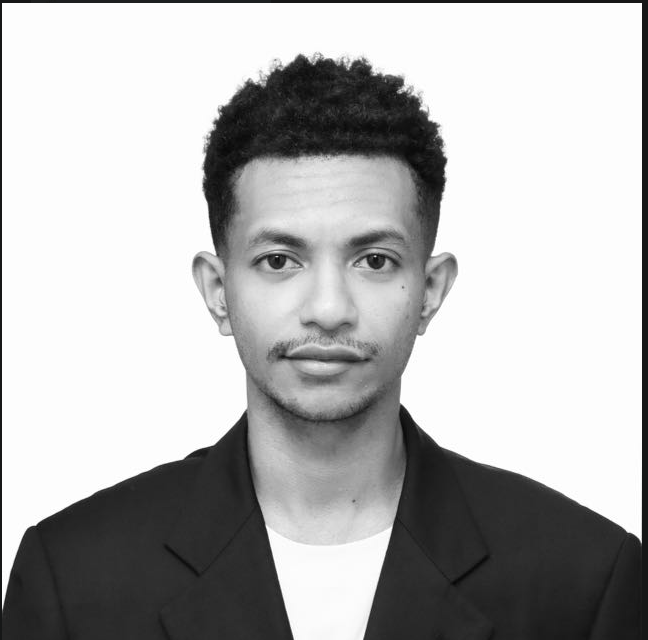
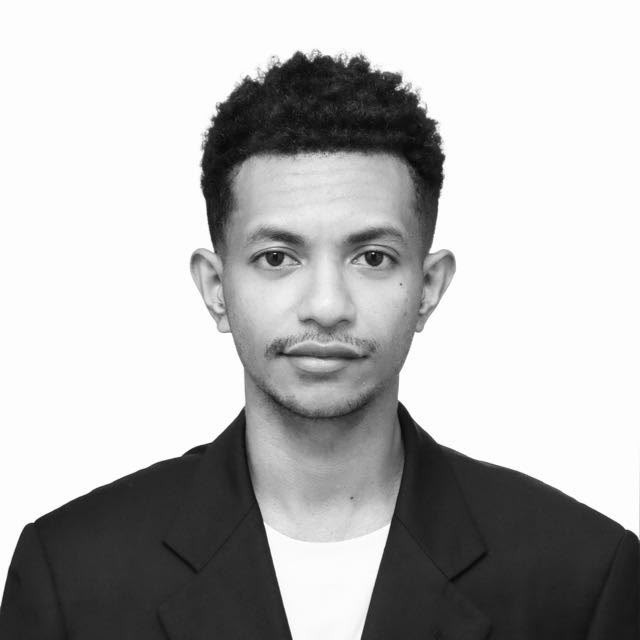
feat: re-upload photo, make photo full-screen inside frame and add interactive fullscreen lightbox modal

diff --git a/src/components/Hero.tsx b/src/components/Hero.tsx
@@ -1,5 +1,5 @@
-import React from 'react';
-import { motion } from 'motion/react';
+import React, { useState, useEffect } from 'react';
+import { motion, AnimatePresence } from 'motion/react';
 import { PortfolioData } from '../types';
 import { useLanguage } from '../context/LanguageContext';
 
@@ -11,6 +11,23 @@ export const Hero: React.FC<HeroProps> = ({ data }) => {
   const { language, t } = useLanguage();
   const th = t.hero;
   const portraitSrc = data.portraitUrl || '';
+  const [isFullscreen, setIsFullscreen] = useState(false);
+
+  useEffect(() => {
+    const handleKeyDown = (e: KeyboardEvent) => {
+      if (e.key === 'Escape') setIsFullscreen(false);
+    };
+    if (isFullscreen) {
+      document.body.style.overflow = 'hidden';
+      window.addEventListener('keydown', handleKeyDown);
+    } else {
+      document.body.style.overflow = '';
+    }
+    return () => {
+      document.body.style.overflow = '';
+      window.removeEventListener('keydown', handleKeyDown);
+    };
+  }, [isFullscreen]);
 
   const scrollToSection = (id: string) => {
     const el = document.getElementById(id);
@@ -136,39 +153,97 @@ export const Hero: React.FC<HeroProps> = ({ data }) => {
           transition={{ duration: 0.8, delay: 0.25, ease: [0.16, 1, 0.3, 1] }}
           className="lg:col-span-5 relative flex justify-center lg:justify-end"
         >
-          {/* Portrait frame — Enlarged size matching user reference */}
+          {/* Portrait frame — Full Screen photo inside frame */}
           <motion.div
             whileHover={{ y: -4, transition: { duration: 0.3 } }}
             className="relative w-full max-w-[340px] sm:max-w-[390px] md:max-w-[430px] lg:max-w-[460px] xl:max-w-[490px]"
           >
-            {/* Outer cream mat frame (Passe-partout) matching reference */}
-            <div className="relative p-4 sm:p-5 lg:p-6 bg-[#EBE5DC] border border-[#DDD6CB] shadow-[0_22px_55px_-16px_rgba(38,59,80,0.18),0_6px_20px_rgba(0,0,0,0.04)] rounded-[2px] transition-all duration-500">
+            {/* Outer cream mat frame (Passe-partout) */}
+            <div className="relative p-3 sm:p-4 bg-[#EBE5DC] border border-[#DDD6CB] shadow-[0_22px_55px_-16px_rgba(38,59,80,0.18),0_6px_20px_rgba(0,0,0,0.04)] rounded-[2px] transition-all duration-500">
               
               {/* Editorial Corner Crop Marks (L-brackets) at top-left and bottom-right */}
-              <div className="absolute top-2 left-2 sm:top-2.5 sm:left-2.5 w-5 h-5 sm:w-6 sm:h-6 border-t-[2.5px] border-l-[2.5px] border-[#81929E] pointer-events-none" />
-              <div className="absolute bottom-2 right-2 sm:bottom-2.5 sm:right-2.5 w-5 h-5 sm:w-6 sm:h-6 border-b-[2.5px] border-r-[2.5px] border-[#81929E] pointer-events-none" />
+              <div className="absolute top-2 left-2 sm:top-2.5 sm:left-2.5 w-5 h-5 sm:w-6 sm:h-6 border-t-[2.5px] border-l-[2.5px] border-[#81929E] pointer-events-none z-10" />
+              <div className="absolute bottom-2 right-2 sm:bottom-2.5 sm:right-2.5 w-5 h-5 sm:w-6 sm:h-6 border-b-[2.5px] border-r-[2.5px] border-[#81929E] pointer-events-none z-10" />
 
-              {/* Middle thin border line */}
-              <div className="border border-[#CAC3B5] p-3.5 sm:p-5 lg:p-6 bg-[#FAF8F4] rounded-[1px] shadow-[inset_0_1px_3px_rgba(0,0,0,0.02)]">
-                {/* Photo container — passport style */}
-                <div className="relative aspect-[3/4] overflow-hidden bg-white border border-[#E0D9CD] shadow-[0_2px_8px_rgba(0,0,0,0.06)] group">
+              {/* Photo container — fills inner frame full-screen, click to open full-screen modal */}
+              <div 
+                onClick={() => setIsFullscreen(true)}
+                className="relative border border-[#CAC3B5] overflow-hidden bg-white rounded-[1px] shadow-[0_2px_8px_rgba(0,0,0,0.06)] group cursor-pointer"
+                title="Klik untuk melihat foto full screen"
+              >
+                <div className="relative aspect-[4/5] overflow-hidden">
                   {portraitSrc ? (
                     <img
                       src={portraitSrc}
                       alt={th.portraitAlt}
-                      className="w-full h-full object-cover object-top grayscale contrast-[1.05] group-hover:scale-103 transition-transform duration-700"
+                      className="w-full h-full object-cover object-top grayscale contrast-[1.05] group-hover:scale-105 transition-transform duration-700"
                     />
                   ) : (
                     <div className="w-full h-full bg-[#EFEBE3] flex items-center justify-center">
                       <span className="font-serif text-2xl text-[#263B50]/40">肖像</span>
                     </div>
                   )}
+
+                  {/* Hover Fullscreen Badge */}
+                  <div className="absolute bottom-3 right-3 px-2.5 py-1.5 rounded bg-[#1C1C1C]/75 backdrop-blur-sm text-white text-[10px] tracking-wider uppercase font-sans flex items-center gap-1.5 opacity-0 group-hover:opacity-100 transition-opacity duration-300 pointer-events-none">
+                    <svg className="w-3.5 h-3.5" fill="none" stroke="currentColor" viewBox="0 0 24 24">
+                      <path strokeLinecap="round" strokeLinejoin="round" strokeWidth={2} d="M4 8V4m0 0h4M4 4l5 5m11-5h-4m4 0v4m0-4l-5 5M4 16v4m0 0h4m-4 0l5-5m11 5l-5-5m5 5v-4m0 4h-4" />
+                    </svg>
+                    <span>Full Screen</span>
+                  </div>
                 </div>
               </div>
             </div>
           </motion.div>
         </motion.div>
       </div>
+
+      {/* Fullscreen Photo Lightbox Modal */}
+      <AnimatePresence>
+        {isFullscreen && (
+          <motion.div
+            initial={{ opacity: 0 }}
+            animate={{ opacity: 1 }}
+            exit={{ opacity: 0 }}
+            transition={{ duration: 0.25 }}
+            onClick={() => setIsFullscreen(false)}
+            className="fixed inset-0 z-50 flex items-center justify-center bg-black/85 backdrop-blur-md p-4 sm:p-8"
+          >
+            <motion.div
+              initial={{ scale: 0.92, opacity: 0 }}
+              animate={{ scale: 1, opacity: 1 }}
+              exit={{ scale: 0.92, opacity: 0 }}
+              transition={{ duration: 0.25 }}
+              onClick={(e) => e.stopPropagation()}
+              className="relative max-w-2xl w-full flex flex-col items-center bg-[#EBE5DC] p-3 sm:p-5 rounded-md border border-[#DDD6CB] shadow-2xl"
+            >
+              {/* Close Button */}
+              <button
+                onClick={() => setIsFullscreen(false)}
+                className="absolute -top-3.5 -right-3.5 sm:-top-4 sm:-right-4 w-9 h-9 rounded-full bg-[#1C1C1C] text-white flex items-center justify-center text-sm font-bold shadow-lg hover:bg-[#B4473F] transition-colors cursor-pointer z-10"
+                aria-label="Close fullscreen"
+              >
+                ✕
+              </button>
+
+              {/* Fullscreen Photo View */}
+              <div className="relative overflow-hidden rounded bg-white border border-[#CAC3B5] max-h-[75vh] w-full flex items-center justify-center">
+                <img
+                  src={portraitSrc}
+                  alt={th.portraitAlt}
+                  className="w-auto h-auto max-h-[75vh] max-w-full object-contain grayscale contrast-[1.05]"
+                />
+              </div>
+
+              {/* Caption */}
+              <div className="mt-3 text-center">
+                <p className="font-serif text-lg sm:text-xl text-[#1C1C1C] tracking-wide font-medium">{displayName}</p>
+                <p className="text-xs text-[#66645F] tracking-widest uppercase font-sans mt-0.5">{displaySubheadline}</p>
+              </div>
+            </motion.div>
+          </motion.div>
+        )}
+      </AnimatePresence>
 
       {/* Bottom Scroll Indicator */}
       <div className="flex flex-col items-center justify-center pt-8 select-none">
